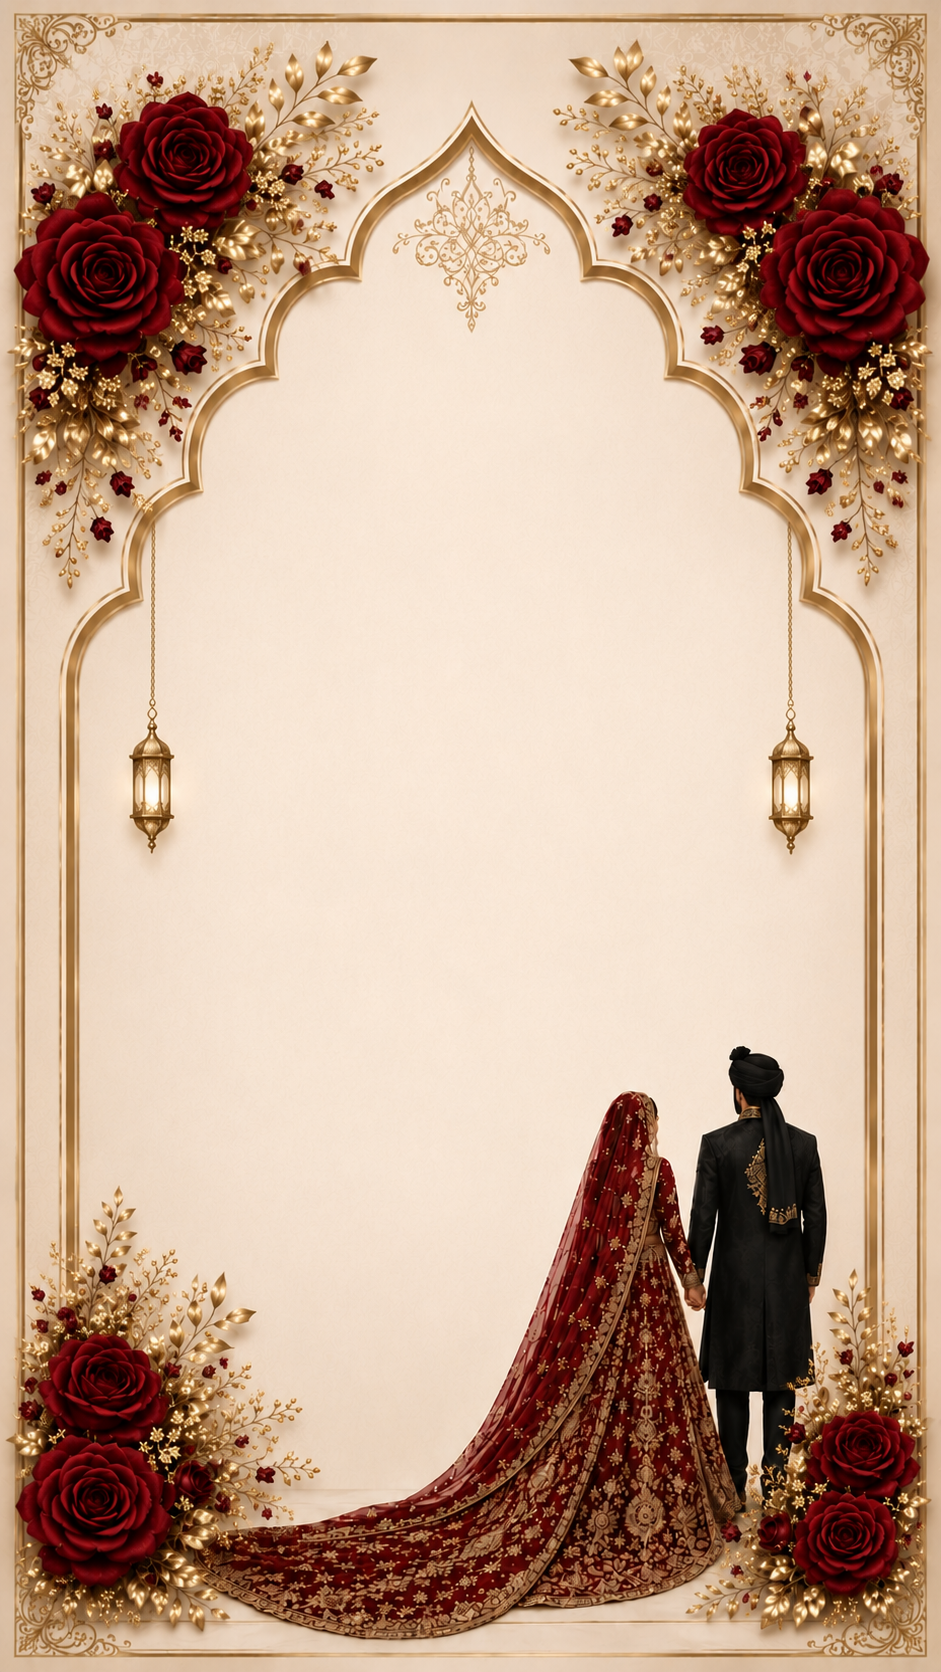
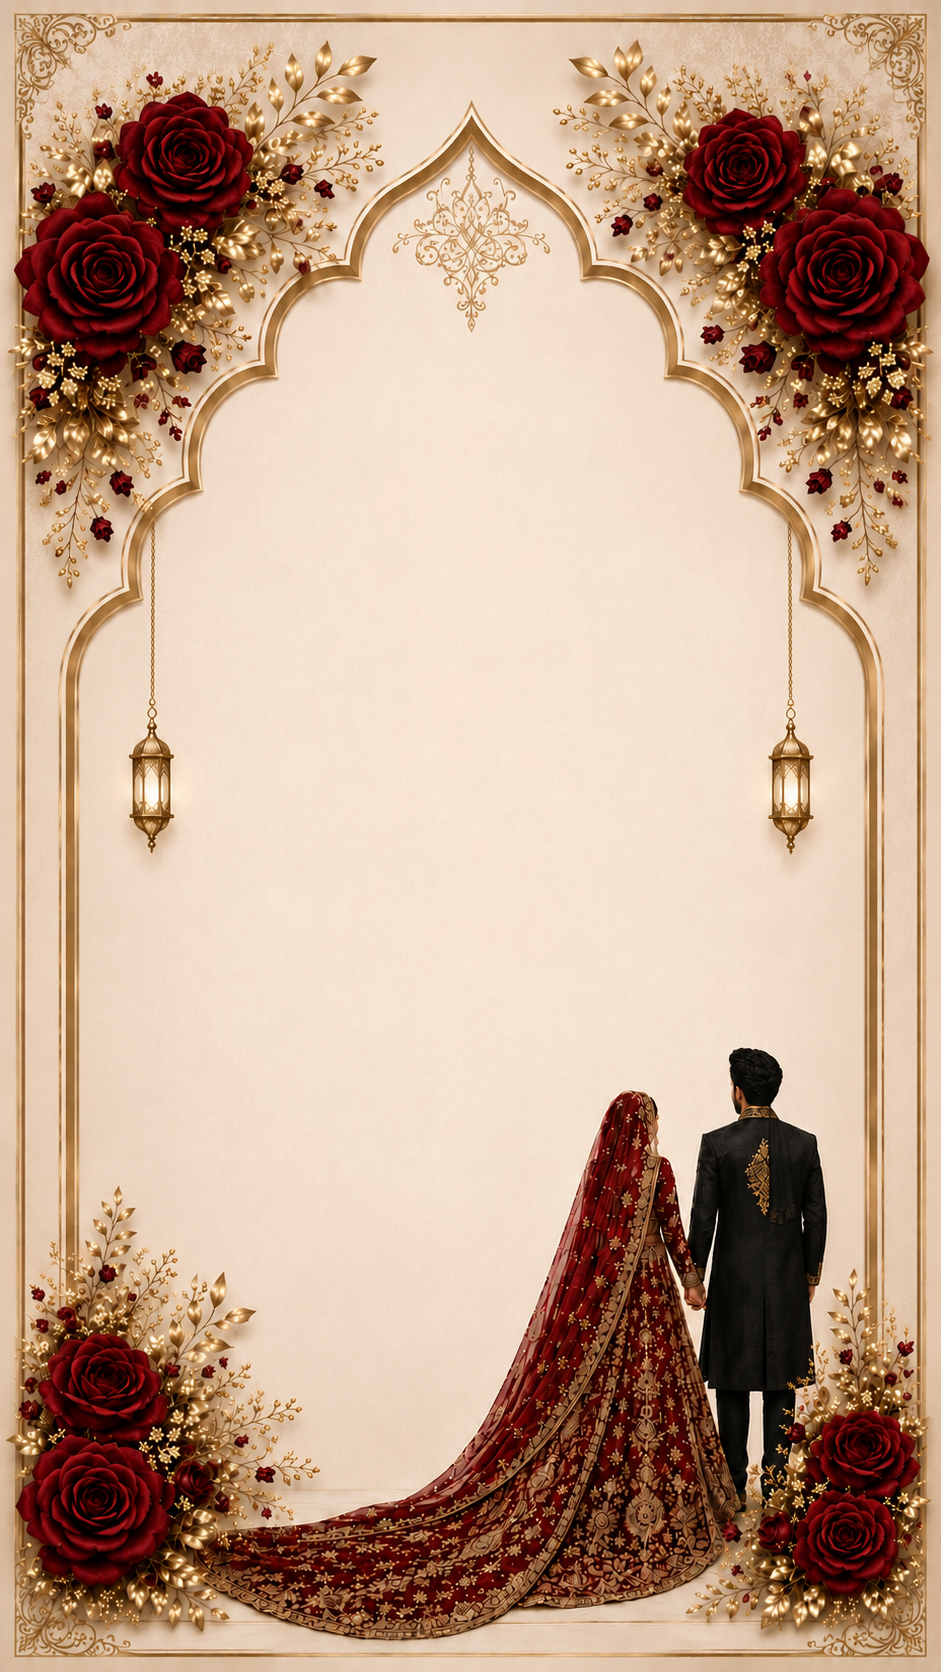
head

diff --git a/index.html b/index.html
@@ -446,12 +446,8 @@
 
     <!-- ============ FOOTER ============ -->
     <footer class="site-footer">
-      <div class="container">
-        <svg class="footer-bismillah-glyph" width="40" height="40" aria-hidden="true">
-          <use href="#crescent-star" />
-        </svg>
-
-        <p class="footer-names">Mohammed Saidalavi &amp; Shareefa</p>
+      <div class="container"> 
+ 
         <p class="footer-blessing">May Allah bless this union with happiness, harmony &amp; endless love.</p>
         <p class="footer-date">11.10.2026 • Sangamam Auditorium, Ottapalam</p>
         <p class="footer-copyright">#MohammedWedsShareefa</p>